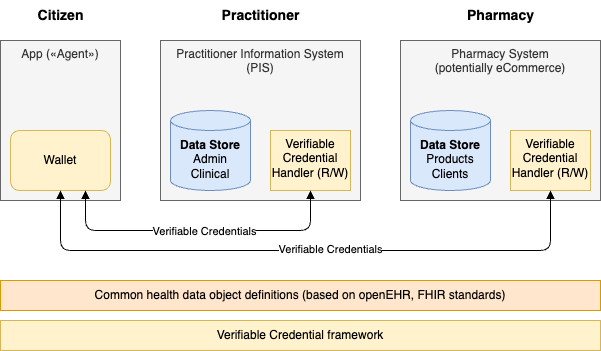
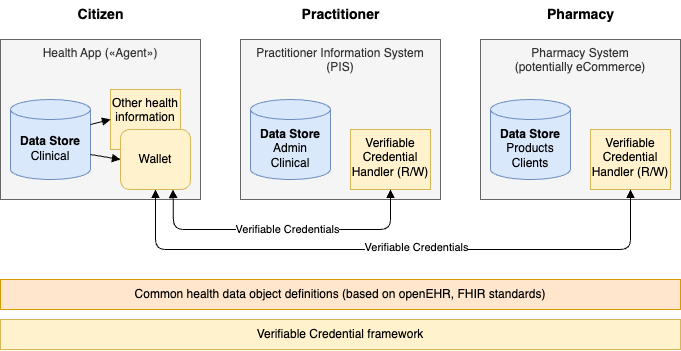
Architecture, technology update; learning log added

diff --git a/README.md b/README.md
@@ -2,13 +2,17 @@
 
 # Health SSI Generation 2
 
-Welcome to the Health SSI repository!
+Welcome to our Health SSI repository!
+
+# Motivation
 
 We are aiming to showcase healthcare use cases based on Self Sovereign Identity (SSI) principles.
 
 This repository builds on the original idea of [Health SSI](https://github.com/janesp/health-ssi) and the subsequent award-winning [challenge](https://hack.opendata.ch/project/1103) at the [GovTech Hackathon 2024](https://www.bk.admin.ch/bk/en/home/digitale-transformation-ikt-lenkung/bundesarchitektur/api-architektur-bund/govtech-hackathon24.html). Check out the short «making of» [video](https://youtu.be/uNrMFE2wOyQ) with the live demonstration at the final pitch.
 
 A health app proof of concept was built in 2022 with a FHIR server backend ([short video](https://youtu.be/T5bYmy_oXMo)). The Health SSI showcase app shall be implemented with a wallet as data store.
+
+It is our intention to implement a health app with health data verifiable credentials based on the Swiss federal govermnent [public beta](https://www.eid.admin.ch/en/public-beta-e) trust infrastructure.
 
 # Use Cases
 
@@ -29,12 +33,12 @@ While the hackathon showcase made simplifications for timely implementation, the
 
 * Modular components with APIs to issue and verify healthcare specific verifiable credentials
 * Simulations of practitioner and pharmacy «business systems» with appropriate user interfaces
-* Wallet for citizen to hold verifiable credetials
+* Wallet for citizen to hold verifiable credetials with health data
 
 ![Health SSI Components](images/components.png)
 
 * All participating (healthcare) «business platforms» are based on common health data object definitions, based on openEHR and FHIR standards (technically based on json schemas)
-* A verifiable credential framework provides generic VC operations such as wallet functionality, as well as VC issuing and verification ([walt.id](https://walt.id/) for the upcoming PoC)
+* A verifiable credential framework provides generic VC operations such as wallet functionality, as well as VC issuing and verification ([walt.id](https://walt.id/) for the PoC)
 * Healthcare specific VC operations are provided by a «business logic» on top of the generic VC framework (through library and REST API interfaces based on [Kotlin Multiplatform](https://kotlinlang.org/docs/multiplatform.html))
 
 ## Technology
@@ -47,22 +51,26 @@ Currently used for first PoC implementation and planned for next steps.
   * SD-JWT signatures
   * Option for BBS+ signatures at a later stage ([Verifiable Credentials Playground](https://vcplayground.org), tbc)
 * Verifiable Credential framework with REST and library APIs to manage generic verifiable credentials ([walt.id](https://walt.id/))
-* Front end (app, desktop) and business logic based on multiplatform environment
-  * [Kotlin Multiplatform](https://kotlinlang.org/docs/multiplatform.html)
+* Front end (app, desktop) and business logic based on multiplatform environment [Rect Native](https://reactnative.dev)
 * Wallet - [esatus](https://esatus.com/en/digital-identity/), [Lissy](https://www.lissi.id/for-users), ... (during next stage); preferably with APIs for credential manipulation from app
 
 In case you are interested in the code, check out our [development repository](https://github.com/deak-ai/healthwallet).
-
-Note - the original idea of no code environments was dropped ([FlutterFlow](https://flutterflow.io/), [BuildShip](https://buildship.com/)).
 
 # Contributors
 
 * [Peter Janes](https://www.linkedin.com/in/peterjanes/) - [DIDAS](https://www.didas.swiss) Health working group lead, GovTech Hackathon challenge owner
 * [Oliver Deak](https://www.linkedin.com/in/oliver-deak/) - technology and development specialist
 
-# Envisaged Showcase Events
+# Past and Envisaged Showcase Events
 
-* [DICE 2024](https://diceurope.org), June 2024 - check out our [short video](https://youtu.be/CaEMHeJBKr8), [DICE 2024 Documents](https://drive.google.com/drive/u/1/folders/1z1Ban7MKxz-yanZQrFsAx7H5zHR_Iiag) (DIDAS Health et al) and [DICE 2024 Health session notes](https://docs.google.com/document/d/18KrZ8nvOPWkPkAjAt0Bdu8vWuTFvgFP0donpNUwLPX4/edit)
-* [Digital Days Aarau](https://www.digitaldaysaarau.ch), October/November 2024
-* [vfsm Innovation Event](https://www.vsfm.info/innovations-anlass), November 7, 2024
+* DICE 2024, June 2024 - check out our [short video](https://youtu.be/CaEMHeJBKr8), [DICE 2024 Documents](https://drive.google.com/drive/u/1/folders/1z1Ban7MKxz-yanZQrFsAx7H5zHR_Iiag) (DIDAS Health et al) and [DICE 2024 Health session notes](https://docs.google.com/document/d/18KrZ8nvOPWkPkAjAt0Bdu8vWuTFvgFP0donpNUwLPX4/edit)
+* [DICE 2025](https://diceurope.org), March and September 2025
 * ...
+
+# Learnings Log
+
+In the course of our prototyping journey, a number of pivots were made to accomodate for learnings resulting from the process:
+
+* No code platforms [FlutterFlow](https://flutterflow.io/) and [BuildShip](https://buildship.com/) dropped in favor of [Kotlin Multiplatform](https://kotlinlang.org/docs/multiplatform.html) for more flexibility regarding functionality as well as VC library and REST API usage
+* [Kotlin Multiplatform](https://kotlinlang.org/docs/multiplatform.html) dropped for App development in favor of [Rect Native](https://reactnative.dev) due to considerably higher maturity of development environment
+* Architecture changed from verifiable credentials as «source of truth» to referenced information to accomodate for other sources of health data (e.g. local Apple [HealthKit](https://developer.apple.com/documentation/healthkit) / Android [Health Connect](https://developer.android.com/health-and-fitness/guides/health-connect), remote EHR)
